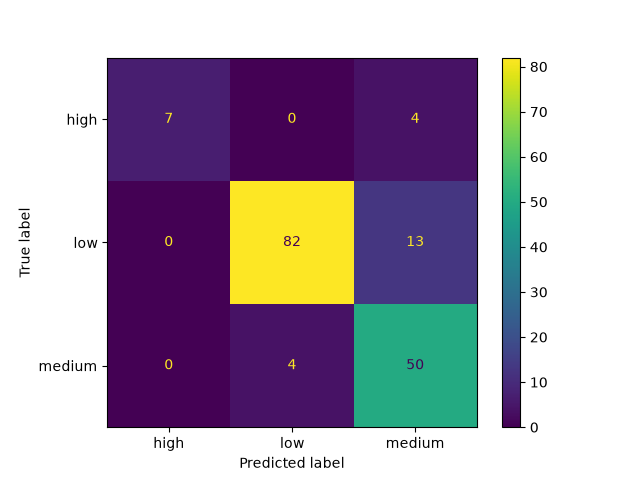
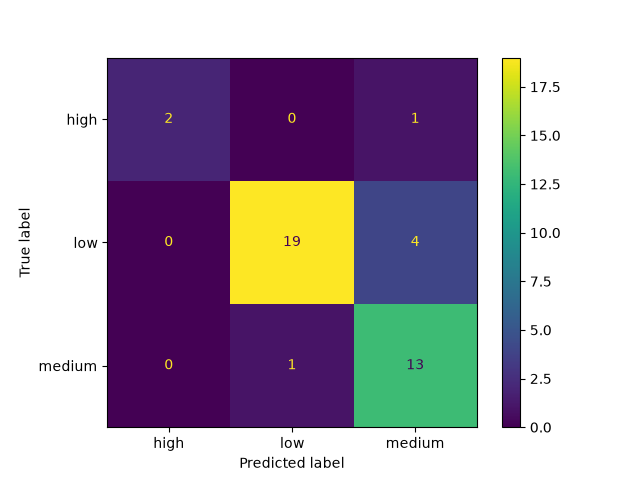
Q3(a) complete, Q3(b) WIP

diff --git a/assignment_2/wegner-TreeTesting.py b/assignment_2/wegner-TreeTesting.py
@@ -1,0 +1,11 @@
+from sklearn.model_selection import train_test_split
+from sklearn import tree
+from sklearn.datasets import make_classification
+
+rand_state = 200514620
+
+X, y = make_classification(n_samples = 500, n_features = 10, n_informative = 3, n_redundant = 0, n_classes = 5, n_clusters_per_class = 1, random_state = rand_state)
+
+X_train, x_test, y_train, y_test = train_test_split(X, y, test_size = .2)
+
+dtree1 = tree.DecisionTreeClassifier(criterion = 'entropy', random_state = rand_state)

diff --git a/assignment_2/wegner-DecisionTree.py b/assignment_2/wegner-DecisionTree.py
@@ -9,7 +9,7 @@ df = pd.read_csv('wegner-risk-data.csv', header = 0)
 X = df.iloc[:, :-1]
 y = df.iloc[:, -1]
 
-X_train, X_test, y_train, y_test = train_test_split(X, y, test_size = 0.8, random_state = rand_state)
+X_train, X_test, y_train, y_test = train_test_split(X, y, test_size = 0.2, random_state = rand_state)
 
 dtree1 = tree.DecisionTreeClassifier(criterion = 'entropy', random_state = rand_state)
 dtree1.fit(X_train[['Elevation', 'Precipitation']], y_train)
